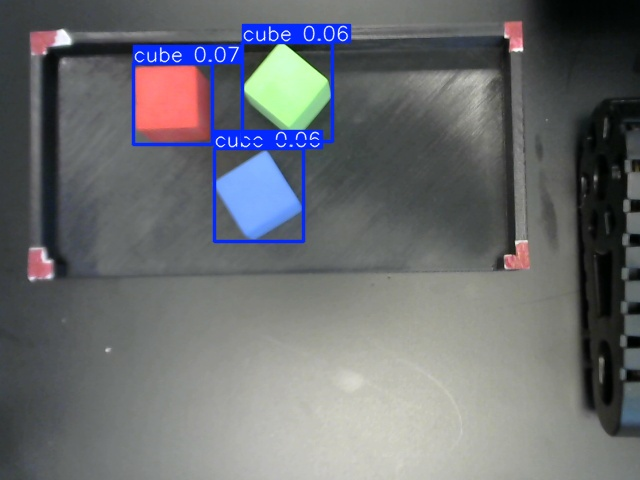
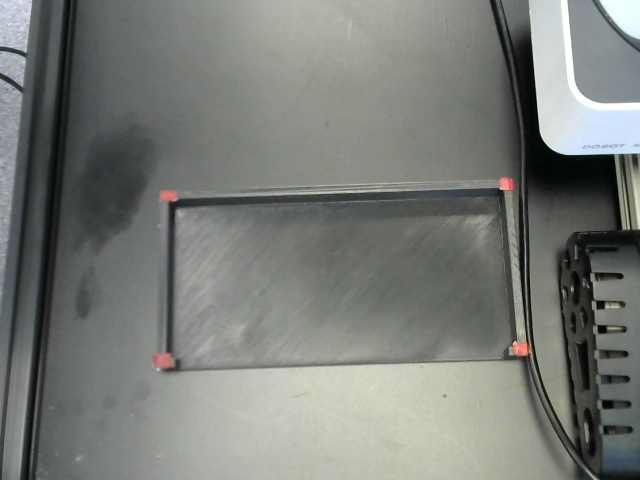
Add files via upload

diff --git a/Python_project/scenarios/scenario_async_rail.py b/Python_project/scenarios/scenario_async_rail.py
@@ -30,6 +30,7 @@ import time
 import math
 import signal
 import shutil
+from statistics import mean
 
 import cv2
 import numpy as np
@@ -169,9 +170,12 @@ def compute_local_pick_point(image_point, r=255):
     global H_0
 
     X_cube, Y_cube = apply_homography(H_0, image_point)
-
+    print(f"Debug test cube edge: x={X_cube} y={Y_cube}")
     try:
-        Y_local = np.sqrt(r**2 - X_cube**2)
+        if X_cube > r:
+            Y_local = 0
+        else:
+            Y_local = np.sqrt(r**2 - X_cube**2)
     except Exception as e:
         Y_local = 0
         print("Exception:", e)
@@ -243,7 +247,7 @@ def Find_cubes(image_path: str):
 
     # Copy the annotated image to the web interface static folder
     saved_image_path = os.path.join(BASE_DIR, "results", analyse_name, image_filename)
-    dest_folder = str(PROJECT_ROOT / "Interface" / "static" / "dossier2")
+    dest_folder = str(PROJECT_ROOT / "Interface" / "static" / "dossier1")
     os.makedirs(dest_folder, exist_ok=True)
     dest_path = os.path.join(dest_folder, os.path.basename(saved_image_path))
     shutil.copy2(saved_image_path, dest_path)
@@ -295,6 +299,65 @@ def apply_homography(H, point):
     print("In robot frame, the coordinate is:", transformed[:2].tolist())
     return transformed[:2].tolist()
 
+def _group_close(values, sensitivity):
+    """
+    Group numeric values that are within tolerance of each other.
+    Returns list of groups (each group is list of original values).
+    """
+    groups = []
+    for v in values:
+        placed = False
+        for g in groups:
+            if abs(v - mean(g)) <= sensitivity:
+                g.append(v)
+                placed = True
+                break
+        if not placed:
+            groups.append([v])
+    return groups
+
+def calculate_last_corner(corners, sensitivity=20.0):
+    """
+    corners: iterable of three (x,y) pairs (floats or ints)
+    sensitivity: tolerance for considering coordinates equal (same units as coordinates)
+    Returns: (x,y) tuple for the missing fourth corner (floats)
+    """
+    # Makes sure that there are only 3 corners as the functions expects that
+    if len(corners) != 3:
+        raise ValueError("Expected exactly 3 corner points")
+
+    xs = [c[0] for c in corners]
+    ys = [c[1] for c in corners]
+
+    x_groups = _group_close(xs, sensitivity)
+    y_groups = _group_close(ys, sensitivity)
+
+    # Function to help find 
+    def choose_missing(groups):
+        # If we have 2 groups we choose the group that has a unique value, as that is the missing corner
+        if len(groups) == 2:
+            if len(groups[0]) == 1 and len(groups[1]) == 2:
+                return mean(groups[0]), mean(groups[1])
+            if len(groups[1]) == 1 and len(groups[0]) == 2:
+                return mean(groups[1]), mean(groups[0])
+        # If we only have one group then that means all the corner points are rougly the same area or the sensitiviy is off
+        if len(groups) == 1:
+            raise ValueError("Could not find two similar values, either adjust sensitivity or there is false corners.")
+        # if we have 3 groups then it finds each corner unique, and we have to adjust sensitiviy or something is wrong with the camera reading.
+        if len(groups) == 3:
+            raise ValueError("Could not find two similar values, either adjust sensitivity or there is false corners.")
+        # Worst case it returns the mean of the first groups
+        vals = [mean(g) for g in groups]
+        if len(vals) >= 2:
+            return vals[0], vals[1]
+        return mean(groups[0]), mean(groups[0])
+
+    x_single, x_paired = choose_missing(x_groups)
+    y_single, y_paired = choose_missing(y_groups)
+    if (float(x_single),float(y_single)) in corners:
+        raise ValueError("Got one of the points that was inputed out, should not happen. Likely a rogue point not part of the zone.")
+    return (float(x_single), float(y_single))
+
 
 def detect_red_corners(image_path, debug=True):
     """
@@ -330,11 +393,10 @@ def detect_red_corners(image_path, debug=True):
 
     contours, _ = cv2.findContours(mask, cv2.RETR_EXTERNAL, cv2.CHAIN_APPROX_SIMPLE)
     red_corners = []
-
     for cnt in contours:
         area = cv2.contourArea(cnt)
         print("area:", area)
-        if 60 < area < 200:
+        if 40 < area < 300:
             M = cv2.moments(cnt)
             if M["m00"] != 0:
                 cx = int(M["m10"] / M["m00"])
@@ -342,6 +404,14 @@ def detect_red_corners(image_path, debug=True):
                 red_corners.append((cx, cy))
 
     print("we have:", len(red_corners), "corners")
+    if len(red_corners) == 3:
+        print("3 corners detected; calculating last corner")
+        for corner in range(len(red_corners)):
+            print(f"Corner {corner}: {red_corners[corner]}")
+        last_corner = calculate_last_corner(red_corners)
+        red_corners.append(last_corner)
+        print(f"Last corner: {last_corner}")
+        
     if len(red_corners) != 4:
         debug_image = image.copy()
         for i, (x, y) in enumerate(red_corners):
@@ -358,8 +428,9 @@ def detect_red_corners(image_path, debug=True):
         cv2.imshow("Detected Corners", debug_image)
         cv2.waitKey(0)
         cv2.destroyAllWindows()
-
-        raise ValueError(f"❌ Found {len(red_corners)} red points, 4 required.")
+        print(f"❌ Found {len(red_corners)} red points, 4 required.")
+        return []
+        #raise ValueError(f"❌ Found {len(red_corners)} red points, 4 required.")
 
     # Custom ordering based on the image orientation
     red_corners_sorted = sorted(red_corners, key=lambda p: p[1])
@@ -402,12 +473,17 @@ def detect_next_component():
     """
     global homography_done, H_0, cap
 
-    path_image = take_snapshot(
-        "C505e HD Webcam",
-        str(PROJECT_ROOT / "Keypoint_detection" / "dataset" / "test" / "images" / "capture_1.jpg")
-    )
-    
-    red_corner = detect_red_corners(path_image, debug=False)
+    red_corner = []
+    tries = 0
+
+    while len(red_corner) !=4 and tries < 5:
+        path_image = take_snapshot(
+            "C505e HD Webcam",
+            str(PROJECT_ROOT / "Keypoint_detection" / "dataset" / "test" / "images" / "capture_1.jpg")
+            )
+        red_corner = detect_red_corners(path_image, debug=False)
+        tries += 1
+        print(f"Attempt number: {tries}")
 
     if not homography_done:
         print("Computing homography…")
@@ -418,9 +494,15 @@ def detect_next_component():
     components_cam = Find_cubes(path_image)  # detection in image frame
 
     # Note: logic kept intact (first item is accessed before emptiness check in original code)
-    comp = components_cam[0]
-    x_cam, y_cam = comp["x"], comp["y"]
-    rail_x, x_loc, y_loc = compute_local_pick_point((x_cam, y_cam))
+    for comp in components_cam:
+        x_cam, y_cam = comp["x"], comp["y"]
+        rail_x, x_loc, y_loc = compute_local_pick_point((x_cam, y_cam))
+        if y_loc != 0:
+            break
+    
+    if y_loc == 0:
+        raise ValueError("Only one component left, and outside of reachable area!")
+    print("Going to ", x_loc," ", y_loc)
 
     if not components_cam:
         print("🔍 No components detected.")
@@ -489,7 +571,7 @@ def pick_and_place(rail_x, x_loc, y_loc):
 BASE_DIR = str(PROJECT_ROOT)
 
 # Camera parameters
-camera_name = "Logi C270 HD WebCam"  # Set to 2 or 0 depending on your camera
+camera_name = " Logi C270 HD WebCam"  # Set to 2 or 0 depending on your camera
 save_directory = os.path.join(BASE_DIR, "Bounding_box_detection", "dataset", "test", "images")
 filename = "capture_1.jpg"
 save_path = os.path.join(save_directory, filename)

diff --git a/Python_project/scenarios/scenario_async_conv.py b/Python_project/scenarios/scenario_async_conv.py
@@ -184,7 +184,7 @@ def Find_cubes(image_path: str):
         source=image_path,
         save=True,
         save_txt=True,
-        conf=0.05,
+        conf=0.5,
         project=str(Path(BASE_DIR) / "results"),
         name=analyse_name,
     )
@@ -278,9 +278,9 @@ def detect_red_corners(image_path: str, debug: bool = False):
 
     # --- Pass 1: HSV ---
     hsv = cv2.cvtColor(img, cv2.COLOR_BGR2HSV)
-    lower1 = np.array([0, 70, 60], dtype=np.uint8)
+    lower1 = np.array([0, 100, 100], dtype=np.uint8)
     upper1 = np.array([10, 255, 255], dtype=np.uint8)
-    lower2 = np.array([160, 70, 60], dtype=np.uint8)
+    lower2 = np.array([160, 100, 100], dtype=np.uint8)
     upper2 = np.array([180, 255, 255], dtype=np.uint8)
     mask = cv2.inRange(hsv, lower1, upper1) | cv2.inRange(hsv, lower2, upper2)
 
@@ -304,6 +304,27 @@ def detect_red_corners(image_path: str, debug: bool = False):
                 continue
             cx, cy = int(M["m10"] / M["m00"]), int(M["m01"] / M["m00"])
             pts.append((cx, cy))
+        for corner in range(len(pts)):
+            print(f"Corner {corner}: {pts[corner]}, Area: {areas[corner]}")
+
+    if len(pts) != 4 :
+        debug_image = img.copy()
+        for i, (x, y) in enumerate(pts):
+            cv2.circle(debug_image, (x, y), 10, (255, 0, 255), -1)
+            cv2.putText(
+                debug_image,
+                str(i + 1),
+                (x + 10, y - 10),
+                cv2.FONT_HERSHEY_SIMPLEX,
+                0.7,
+                (0, 255, 0),
+                2,
+            )
+        cv2.imshow("Detected Corners", debug_image)
+        cv2.waitKey(0)
+        cv2.destroyAllWindows()
+
+        #raise ValueError(f"❌ Found {len(pts)} red points, 4 required.")       
 
     # --- Fallback: Lab a‑channel if < 4 points ---
     if len(pts) < 4:
@@ -312,7 +333,7 @@ def detect_red_corners(image_path: str, debug: bool = False):
         _, m2 = cv2.threshold(a_chan, 150, 255, cv2.THRESH_BINARY)
         m2 = cv2.morphologyEx(m2, cv2.MORPH_OPEN, k, iterations=1)
         m2 = cv2.morphologyEx(m2, cv2.MORPH_CLOSE, k, iterations=1)
-        cnts2, _ = cv2.findContours(m2, cv2.RETR_INTERNAL, cv2.CHAIN_APPROX_SIMPLE)
+        cnts2, _ = cv2.findContours(m2, cv2.RETR_CCOMP, cv2.CHAIN_APPROX_SIMPLE)
         pts = []
         areas2 = [cv2.contourArea(c) for c in cnts2 if cv2.contourArea(c) > 5]
         if areas2:
@@ -346,6 +367,8 @@ def detect_red_corners(image_path: str, debug: bool = False):
             dists[chosen] = -1
             chosen.append(int(np.argmax(dists)))
         pts = [tuple(map(int, pts_np[i])) for i in chosen]
+
+    
 
     # Order: top‑left, top‑right, bottom‑left, bottom‑right
     pts_sorted = sorted(pts, key=lambda p: (p[1], p[0]))
@@ -458,7 +481,7 @@ def Is_Suction_On() -> None:
 def Sort_Non_Radioactive() -> None:
     """Release the cube and resume the conveyor for the non‑radioactive bin."""
     dType.SetEndEffectorSuctionCupEx(api_conv, 0, 1)
-    dType.SetPTPCmdEx(api_conv, 0, -33,  -216,  80, 0, 1)
+    dType.SetPTPCmdEx(api_conv, 0, REST_POS_X, REST_POS_Y, REST_POS_Z, 0, 1)
     dType.SetEMotorEx(api_conv, 0, 1, int(8000), 1)
     dType.dSleep(4000)
     dType.SetEMotorEx(api_conv, 0, 0, int(0), 1)
@@ -468,7 +491,7 @@ def Sort_Non_Radioactive() -> None:
 def Sort_Radioactive() -> None:
     """Release the cube and run the belt in reverse for the radioactive bin."""
     dType.SetEndEffectorSuctionCupEx(api_conv, 0, 1)
-    dType.SetPTPCmdEx(api_conv, 0, -33,  -216,  80, 0, 1)
+    dType.SetPTPCmdEx(api_conv, 0, REST_POS_X, REST_POS_Y, REST_POS_Z, 0, 1)
     dType.SetEMotorEx(api_conv, 0, 1, -int(8000), 1)
     dType.dSleep(5000)
     dType.SetEMotorEx(api_conv, 0, 0, int(0), 1)
@@ -521,7 +544,7 @@ def detect_next_component():
     print("distance hyopot :", np.hypot(pose[0] - x_loc, pose[1] - y_loc))
     
 
-    MAX_DIST_MM = 200
+    MAX_DIST_MM = 2000
     if np.hypot(pose[0] - x_loc, pose[1] - y_loc) > MAX_DIST_MM:
         print("Wrong cube detected — trying other candidates")
 
@@ -570,6 +593,9 @@ Place_Z = 15
 Place_radioactive_X = 150
 Place_radioactive_Y = 134
 Place_radioactive_Z = 15
+REST_POS_X = 135
+REST_POS_Y = -170
+REST_POS_Z = 80
 
 # Stepper constants for the belt (kept for parity with original)
 STEP_PER_CRICLE = 360.0 / 1.8 * 10.0 * 16.0
@@ -611,7 +637,7 @@ dType.SetQueuedCmdStartExec(api_conv)
 dType.SetColorSensor(api_conv, 1, 1, 1)
 dType.SetInfraredSensor(api_conv, 1, 2, 1)
 dType.dSleep(1000)
-dType.SetPTPCmdEx(api_conv, 0, -33, -216, 80, 0, 1)
+dType.SetPTPCmdEx(api_conv, 0, REST_POS_X, REST_POS_Y, REST_POS_Z, 0, 1)
 
 # Initialize camera
 
@@ -629,6 +655,7 @@ dType.SetEMotorEx(api_conv, 1, 1, -int(8000), 1)
 # Main loop
 while True:
     if dType.GetInfraredSensor(api_conv, 2)[0] == 1:
+        time.sleep(1.5)
         dType.SetEMotorEx(api_conv, 1, 0, int(0), 1)  # stop conveyor
 
         x_loc, y_loc = detect_next_component()
@@ -637,7 +664,7 @@ while True:
         if x_loc is None and y_loc is None:
             print("🛑 No cube detected. Ending cycle.")
             break
-
+        dType.SetPTPCmdEx(api_conv, 0, -33, -216, 80, 0, 1)
         dType.SetEndEffectorSuctionCupEx(api_conv, 1, 1)
         dType.SetPTPCmdEx(api_conv, 2, x_loc, y_loc, 50, 0, isQueued=1)
         dType.SetPTPCmdEx(api_conv, 2, x_loc, y_loc, 10, 0, isQueued=1)

diff --git a/Camera/Find_Webcam.py b/Camera/Find_Webcam.py
@@ -16,8 +16,8 @@ from typing import List, Optional
 # --------- Listing des caméras (Windows) ---------
 def list_ds_cameras() -> List[str]:
     """
-    Retourne la liste des caméras DirectShow par leur 'friendly name'.
-    Nécessite PowerShell (présent par défaut sur Windows).
+    Return the list of DirectShow cameras by their 'friendly name'.
+    Requires PowerShell (present by default on Windows).
     """
     try:
         ps_cmd = [
